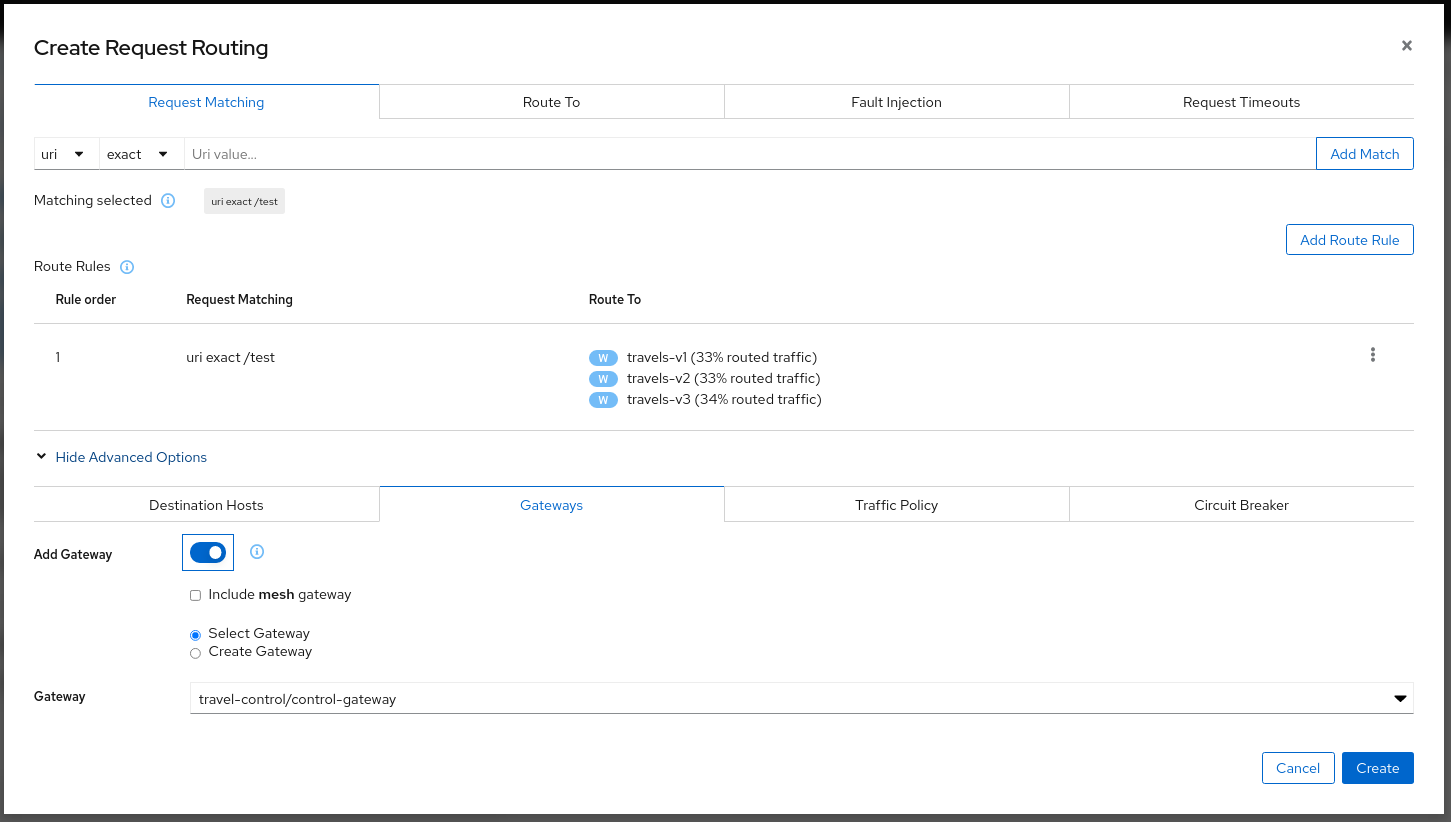
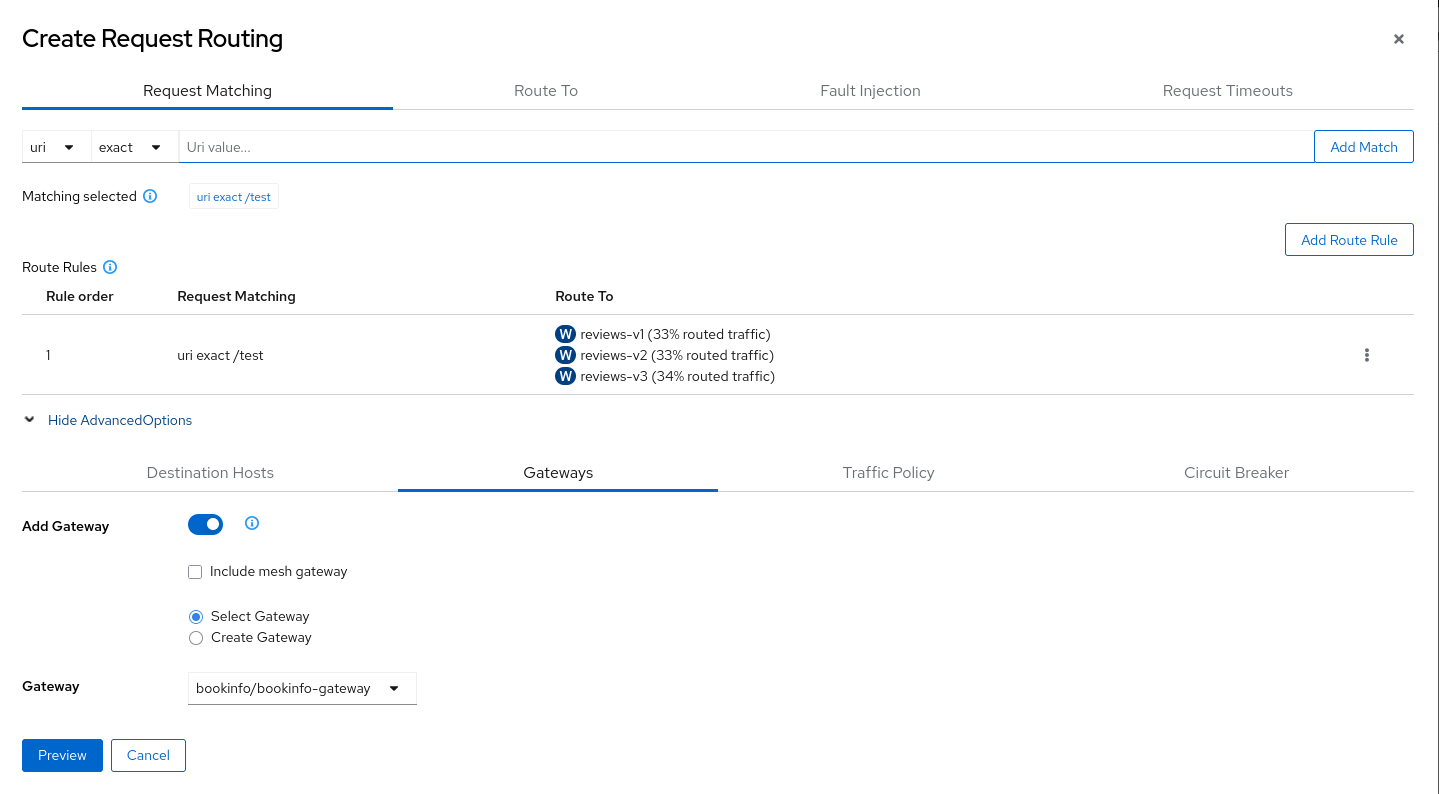
Added service wizard screenshots

diff --git a/content/en/docs/Features/wizards.md b/content/en/docs/Features/wizards.md
@@ -82,6 +82,12 @@ Traffic Management Wizards allows defining Circuit Breakers on Services as part 
 
 ![Circuit Breaker](/images/documentation/features/actions-service-advanced-circuit-breaker.png "Circuit Breaker")
 
+### Routing Rules Preview
+
+Kiali provides a safe preview environment where user can review the complete YAML definition of the routing configuration and edit the configuration inline before creating.
+
+![Preview Configuration](/images/documentation/features/actions-service-preview.png "Preview Configuration")
+
 ### Security: Traffic Policy
 
 Traffic Management Advanced Options allows defining Security and Load Balancing settings.
